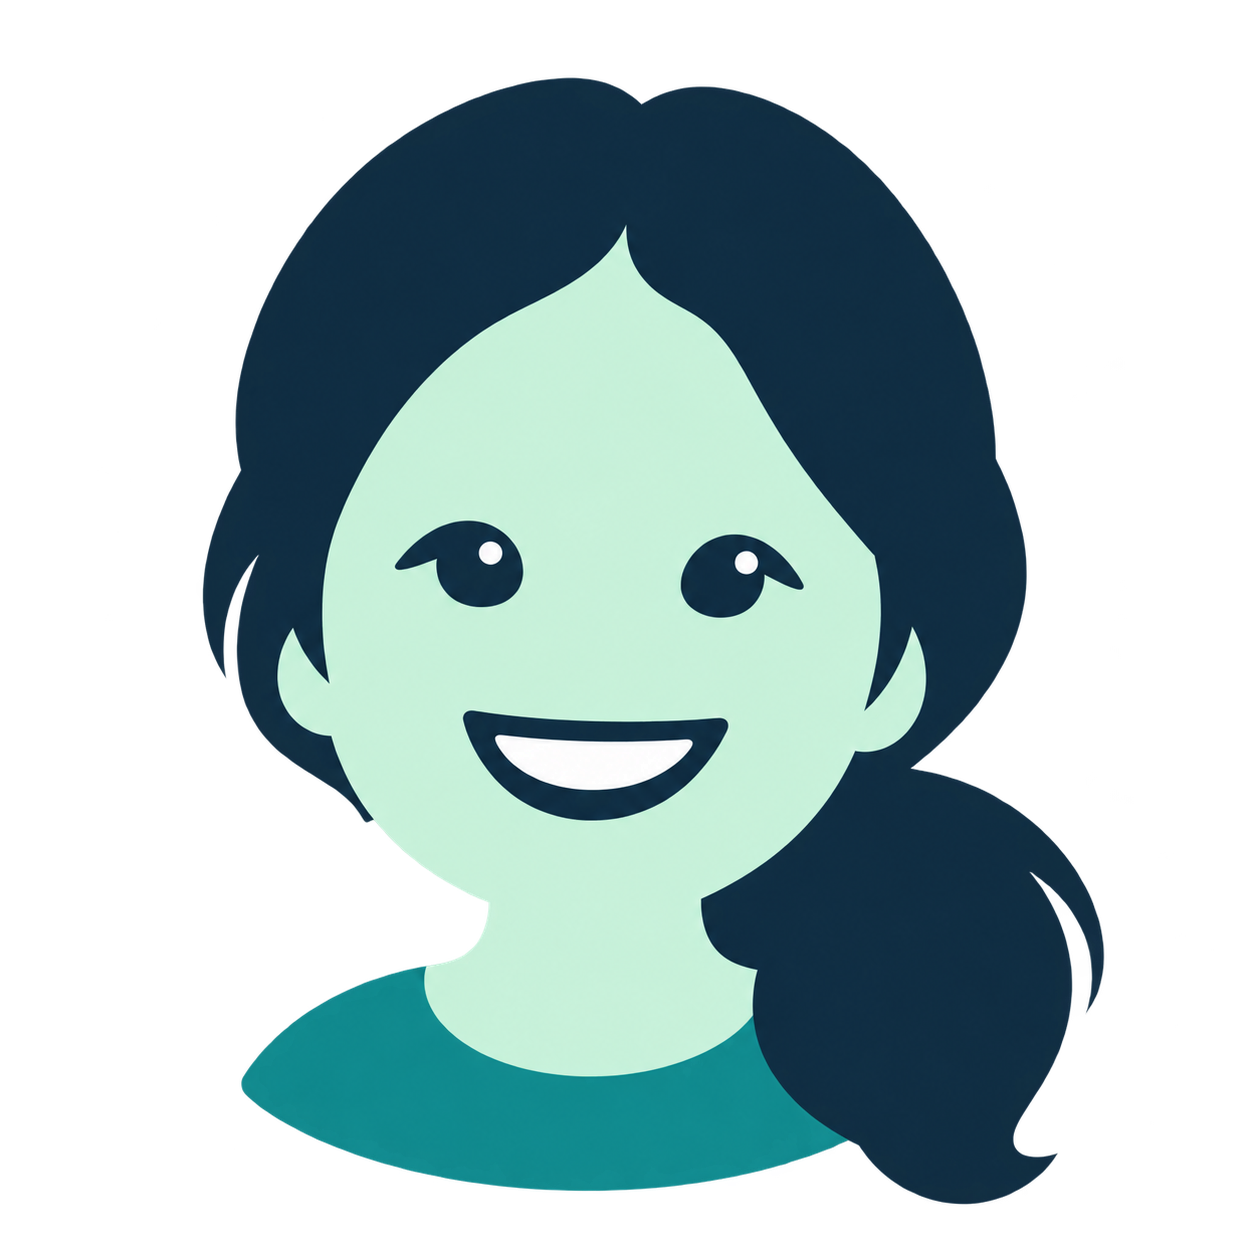
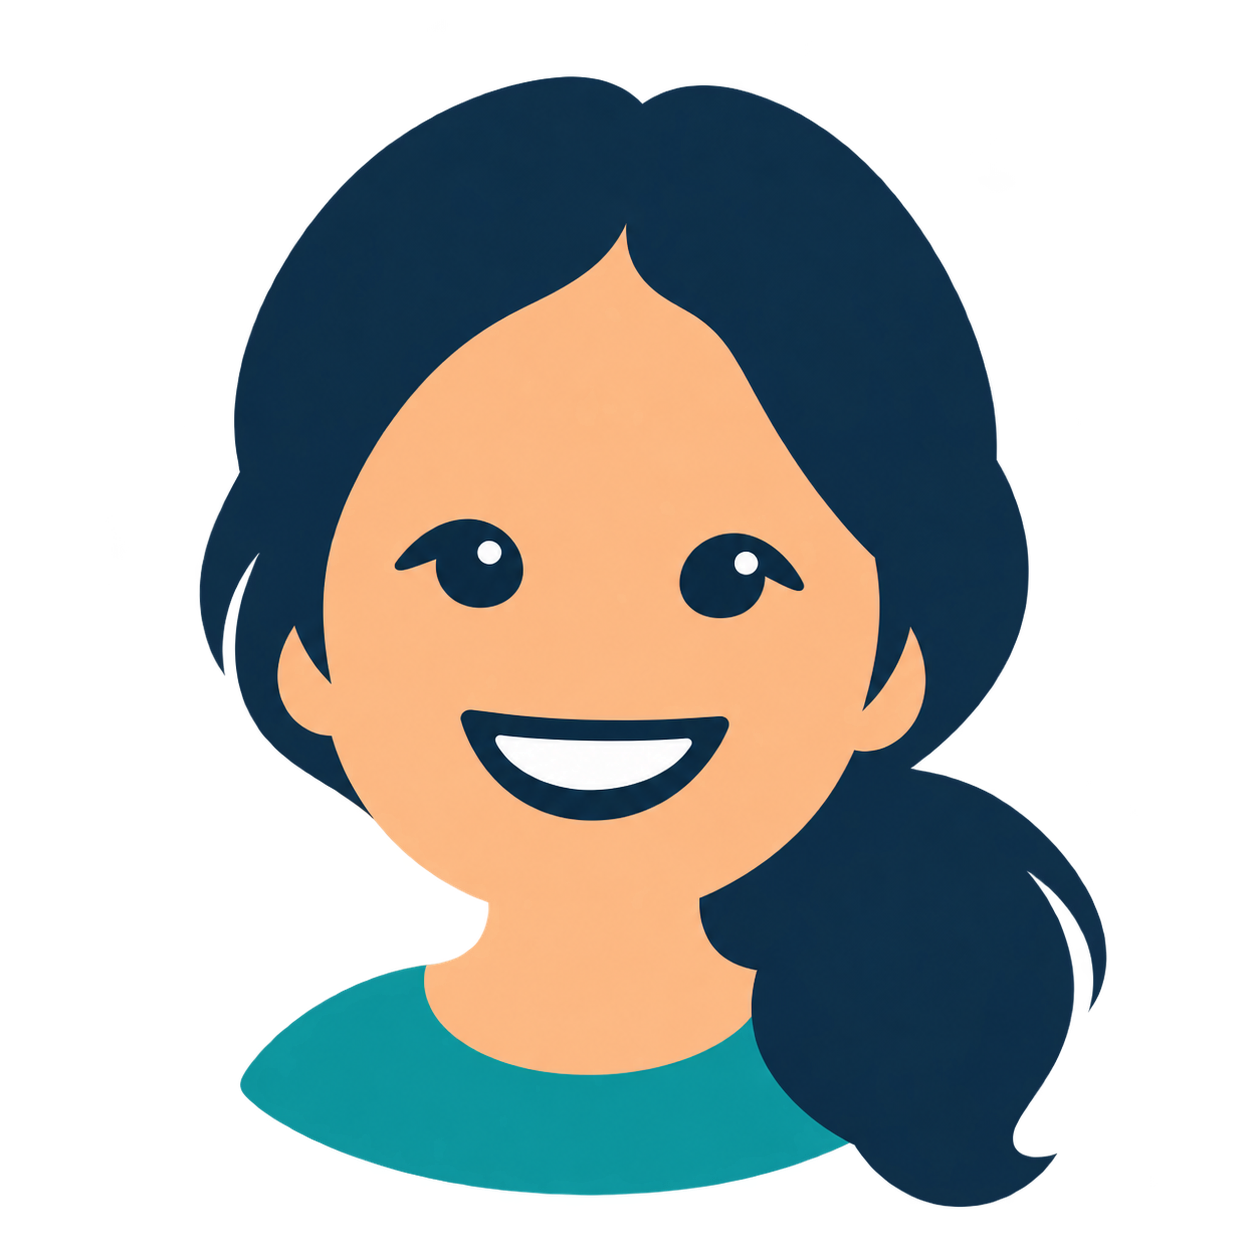
Release Malyn 0.0.68Betaz with Kitchen and Explorer fixes

diff --git a/src/ui/app.js b/src/ui/app.js
@@ -49,7 +49,7 @@ function showCapabilities() {
 async function refreshState(initial=false) {
   state=await api('state');offline=false;
   busy=state.jobs.some(job=>job.status==='running');
-  $('#version').textContent=`Malyn ${state.version}`;
+  $('#version').textContent=`Malyn ${state.displayVersion??state.version}`;
   $('#model-name').textContent=state.settings.modelKey;
   $('#context-size').textContent=Number(state.settings.contextLength).toLocaleString();
   $('#active-count').textContent=busy?'1 running':'Idle';

diff --git a/README.md b/README.md
@@ -12,7 +12,7 @@ Your AI agent can hand her the time-consuming reading while it plans the next st
 
 Malyn gives you a way to put your own hardware to work and keep bulk file processing on your computer, without pasting everything into a chat.
 
-[Download Malyn for Windows](https://github.com/synops-one/malyn/releases/tag/v0.0.42alphaz) · [Watch the 67-second demo](https://github.com/synops-one/malyn/releases/download/v0.0.42alphaz/Malyn-0.0.42alphaz-landscape.mp4)
+[Download Malyn for Windows](https://github.com/synops-one/malyn/releases/tag/v0.0.68Betaz) · [Watch the 67-second demo](https://github.com/synops-one/malyn/releases/download/v0.0.42alphaz/Malyn-0.0.42alphaz-landscape.mp4)
 
 ## What can she help with?
 
@@ -29,7 +29,7 @@ She can also help your coding agent review files and draft changes. Your agent h
 
 This preview is built around **Windows 11 and the Intel Arc B580 with 12 GB of memory**, using **Gemma 4 12B** by default. Connect your GPU and install its driver first.
 
-1. Download and extract [Malyn-0.0.42-Windows-x64.zip](https://github.com/synops-one/malyn/releases/download/v0.0.42alphaz/Malyn-0.0.42-Windows-x64.zip).
+1. Download and extract [Malyn-0.0.68-Betaz-Windows-x64.zip](https://github.com/synops-one/malyn/releases/download/v0.0.68Betaz/Malyn-0.0.68-Betaz-Windows-x64.zip).
 2. Run `Install-Malyn.cmd`. Setup downloads the local runtime and model if needed, checks that they work, and connects Malyn to Codex.
 3. Restart Codex, then try asking, **“Malyn, check my system logs.”**
 4. Open Malyn from her tray icon to choose your settings and enable the Windows features you want.
@@ -66,14 +66,14 @@ See [how recipes work](docs/recipes.md), [example jobs](examples/README.md) and 
 
 ## About this preview
 
-- **Release: 0.0.42alphaz.** The app and installer use version **0.0.42**. This is an early Windows release tested on a B580. Fresh-account/fresh-machine installation and GPU disconnect/reconnect still need verification. Other GPUs and model combinations are experimental.
+- **Release: 0.0.68Betaz.** Package and plugin metadata use **0.0.68-Betaz**. This is an early Windows release tested on a B580. Fresh-account/fresh-machine installation and GPU disconnect/reconnect still need verification. Other GPUs and model combinations are experimental.
 - **Codex has been tested.** Claude Code and other compatible MCP clients can be configured, but they haven't been validated for this release. See [connecting your agent](docs/setup.md#mcp-clients).
 - **One job at a time.** Malyn needs her configured GPU. She won't silently switch to your CPU or a cloud model, and she doesn't queue new jobs while busy.
 - **The demo shows the 0.0.41 development build.** It uses real product footage and synthetic files. Processing waits are cut out and labelled; it isn't a speed benchmark.
 
 ## Cook with her
 
-Her **Kitchen** is where your recipes live. Import a Markdown recipe, read what it does and export a copy to share or adapt. The Kitchen is available in the current source preview, `0.0.42+kitchen.1`; the published `0.0.42alphaz` download still has the earlier Loops screen.
+Her **Kitchen** is where your recipes live. Import a Markdown recipe, read what it does and export a copy to share or adapt. Kitchen and recipe import/export are included in **0.0.68Betaz**.
 
 For model settings and advanced options, see [configuration](docs/configuration.md) and the [setup and command-line guide](docs/setup.md). To compare speed or token use, see [measurement](docs/measurement.md); local token counts aren't a measure of cloud tokens saved.
 

diff --git a/docs/desktop.md b/docs/desktop.md
@@ -36,7 +36,7 @@ All commands accept `--config PATH`. `malyn ui --no-open` starts the UI without 
 - Overview: admission state, active jobs, configured model/context and an explicit hardware/runtime check. “Accepting tasks” does not assert that the GPU is connected or a model is loaded.
 - Models & settings: select an installed local model, set context, KV cache, output/reasoning budgets and idle lifetime. Load the configured model or unload only Malyn's idle worker model. These actions are refused while a worker owns the job lock.
 - Jobs & reports: the latest 50 jobs, status, local token/timing metrics, cancellation and opt-in report viewing. Reports render as plain text inside the local browser; the page never automatically fetches their contents.
-- **Kitchen**: read bundled and imported recipes, choose a Markdown file to preview and import, and export any recipe for sharing. Importing adds it to the Kitchen without running it or replacing another recipe. Available in the `0.0.42+kitchen.1` preview.
+- **Kitchen**: read bundled and imported recipes, choose a Markdown file to preview and import, and export any recipe for sharing. Importing adds it to the Kitchen without running it or replacing another recipe. Included in **0.0.68Betaz**.
 - Advanced: allowed root directories, GPU/runtime patterns, integrated GPU preference, job timeout and prediction/tool-call limits. Runtime executable paths, model identifiers and backend selection cannot be edited through HTTP.
 
 Pause blocks **new** submissions across the CLI and MCP in this version. It is persisted in `control.json`. An existing job continues until it finishes or you cancel it. Resume reopens admission. Quitting the tray or admin UI does not stop MCP or cancel jobs. Close the tray/admin UI before upgrading, and restart connected MCP clients after upgrading so they use the new code, including admission controls.

diff --git a/docs/releasing.md b/docs/releasing.md
@@ -16,7 +16,7 @@ The GitHub Actions workflow runs tests and builds downloadable workflow artifact
 
 Before publishing:
 
-1. Use `synops-one/malyn` as the source repository. The 0.0.42 package is released as the `v0.0.42alphaz` GitHub prerelease. If you also publish to npm, confirm ownership and name availability first.
+1. Use `synops-one/malyn` as the source repository. Package version `0.0.68-Betaz` is released as the `v0.0.68Betaz` GitHub prerelease. Keep previous release tags and assets intact. If you also publish to npm, confirm ownership and name availability first.
 2. Verify the `repository`, `homepage`, issue and private security-reporting URLs. Verify rights to all contributions and retain license notices.
 3. Before promoting beyond public preview, test the Windows ZIP on a fresh Windows account with the intended eGPU and driver. Test install, disconnect/reconnect, upgrade and removal. Record runtime and model versions. Fresh-machine installation and eGPU disconnect/reconnect remain unverified for this preview. A passing smoke test on your existing installation does not verify those flows.
 4. Run the build from the release commit. Inspect the ZIP/tar file lists, checksums and example outputs. Review `npm audit --omit=dev` at release time and assess findings; a lockfile is not a perpetual vulnerability guarantee.

diff --git a/docs/setup.md b/docs/setup.md
@@ -4,7 +4,7 @@ For a quick introduction, start with the [Malyn README](../README.md). This guid
 
 ## Windows installation
 
-1. Download and extract [Malyn-0.0.42-Windows-x64.zip](https://github.com/synops-one/malyn/releases/download/v0.0.42alphaz/Malyn-0.0.42-Windows-x64.zip). Connect the GPU and install its vendor driver.
+1. Download and extract [Malyn-0.0.68-Betaz-Windows-x64.zip](https://github.com/synops-one/malyn/releases/download/v0.0.68Betaz/Malyn-0.0.68-Betaz-Windows-x64.zip). Connect the GPU and install its vendor driver.
 2. Run `Install-Malyn.cmd`. It starts `Install-Malyn.ps1`; command-line parameters are forwarded to that script.
 3. Setup installs a private Node runtime, locates or downloads the LM Studio headless runtime, locates or downloads the model, performs a real file-to-artifact smoke test, and registers the MCP server and routing skill with Codex.
 4. Restart Codex. Open Malyn from the new tray icon to review settings, then ask Codex to investigate a bounded set of files; the routing skill recommends Malyn when delegation is useful.

diff --git a/CHANGELOG.md b/CHANGELOG.md
@@ -1,5 +1,13 @@
 # Changelog
 
+## 0.0.68Betaz
+
+- Includes Kitchen and recipe import/export from the source preview.
+- Uses natural skin tones for Malyn's tray icon, browser favicon and navigation mark.
+- Registers and verifies Ask Malyn through Windows' registry service so a private host registry view cannot produce a false enabled state. Entries remain scoped to the current user and retain ownership checks.
+- Shortens the Explorer command by storing installation paths in its private registration record, and refreshes Explorer after registration changes.
+- Displays 0.0.68Betaz in the app; package and plugin metadata use the semver version `0.0.68-Betaz`.
+
 ## 0.0.42+kitchen.1 (source preview)
 
 - Kitchen replaces the Loops screen, with a Markdown file picker, readable preview and recipe import/export.

diff --git a/src/ui/BRANDING.md b/src/ui/BRANDING.md
@@ -1,3 +1,3 @@
 # Malyn artwork
 
-Malyn uses an AI-generated portrait and simplified mark based on a reference photograph. The original photograph is not distributed. Use the portrait at larger sizes; the simplified mark serves as the tray icon and browser favicon.
+Malyn uses an AI-generated portrait and simplified mark based on a reference photograph. The original photograph is not distributed. Both use natural skin tones. Use the portrait at larger sizes; the simplified mark serves as the tray icon and browser favicon.
